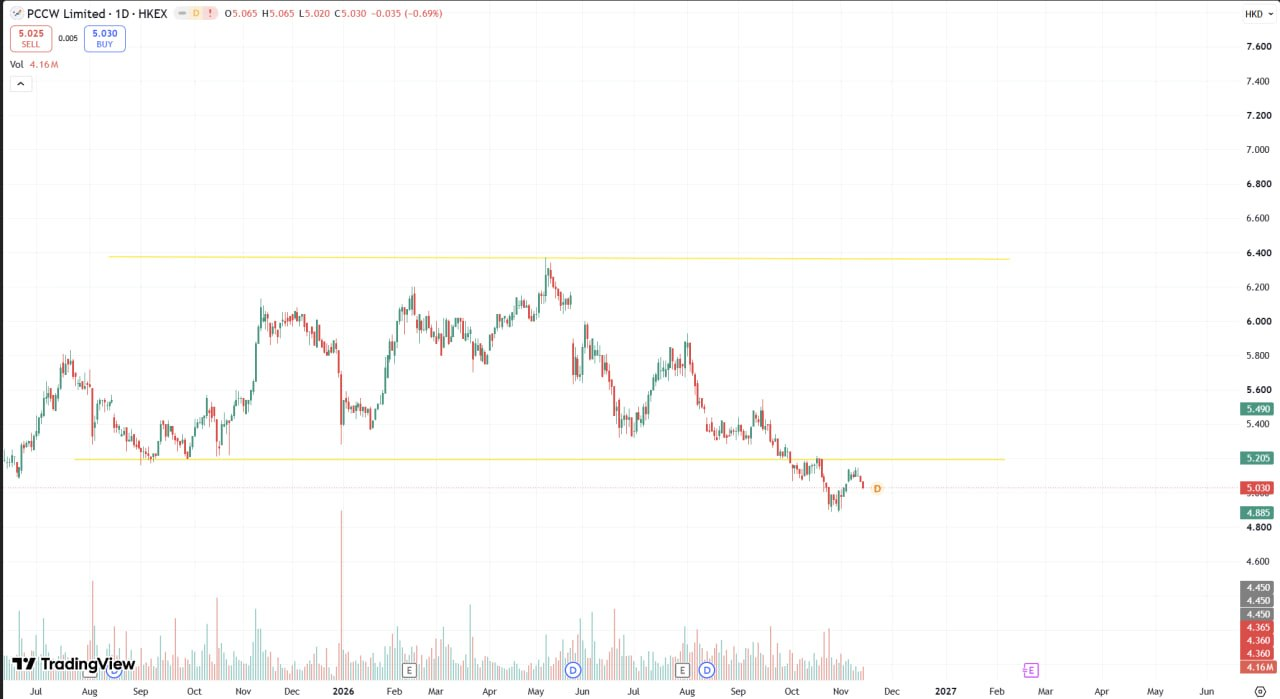
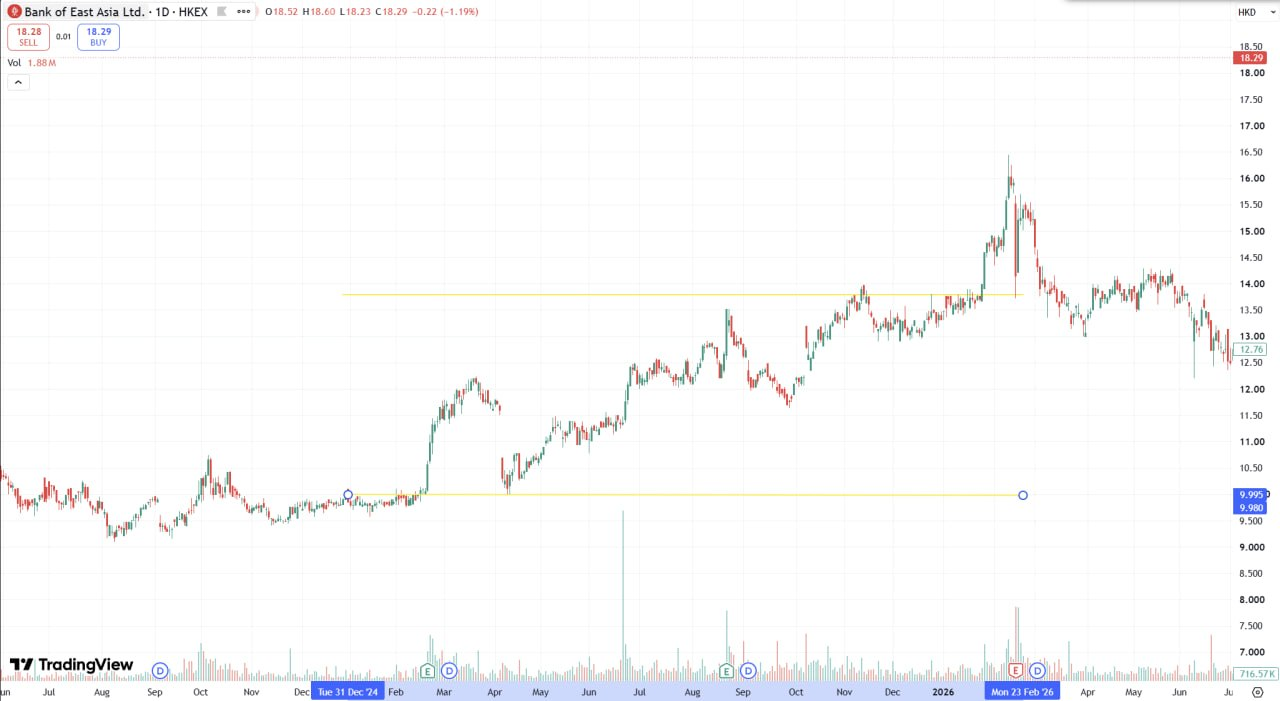
底部交易突破: 第 8 張換東亞銀行
圖上冇印代號，Yahoo 對公司名 0023.HK。黃線冇標價唔估。

diff --git a/底部交易突破/index.html b/底部交易突破/index.html
@@ -121,10 +121,10 @@
         </article>
 
         <article class="case-card">
-          <div class="case-header"><h3>08 · PCCW Limited</h3><span class="ticker">0008 · 1D · HKEX</span></div>
-          <div class="case-chart"><img src="../images/底部交易突破/08.jpg" alt="PCCW 1D" /></div>
-          <p>日線。軸印 Jul … 2026 … 2027 … Jun。兩條黃線冇標價。代號圖上冇印，Yahoo 對公司名：0008.HK。O5.065 H5.065 L5.020 C5.030 −0.035 (−0.69%)。Vol 4.16M。</p>
-          <div class="case-tags"><span>1D</span><span>HKEX</span><span>0008 圖上冇印</span></div>
+          <div class="case-header"><h3>08 · Bank of East Asia Ltd.</h3><span class="ticker">0023 · 1D · HKEX</span></div>
+          <div class="case-chart"><img src="../images/底部交易突破/08.jpg" alt="Bank of East Asia 1D" /></div>
+          <p>日線。軸由 Jun 起，藍框 Tue 31 Dec '24、Mon 23 Feb '26，中間印 2026。兩條黃線冇標價。右軸標 18.29、12.76、9.980。代號圖上冇印，Yahoo 對公司名：0023.HK。O18.52 H18.60 L18.23 C18.29 −0.22 (−1.19%)。Sell 18.28 / Buy 18.29。Vol 1.88M。</p>
+          <div class="case-tags"><span>1D</span><span>HKEX</span><span>0023 圖上冇印</span></div>
         </article>
 
         <article class="case-card">
